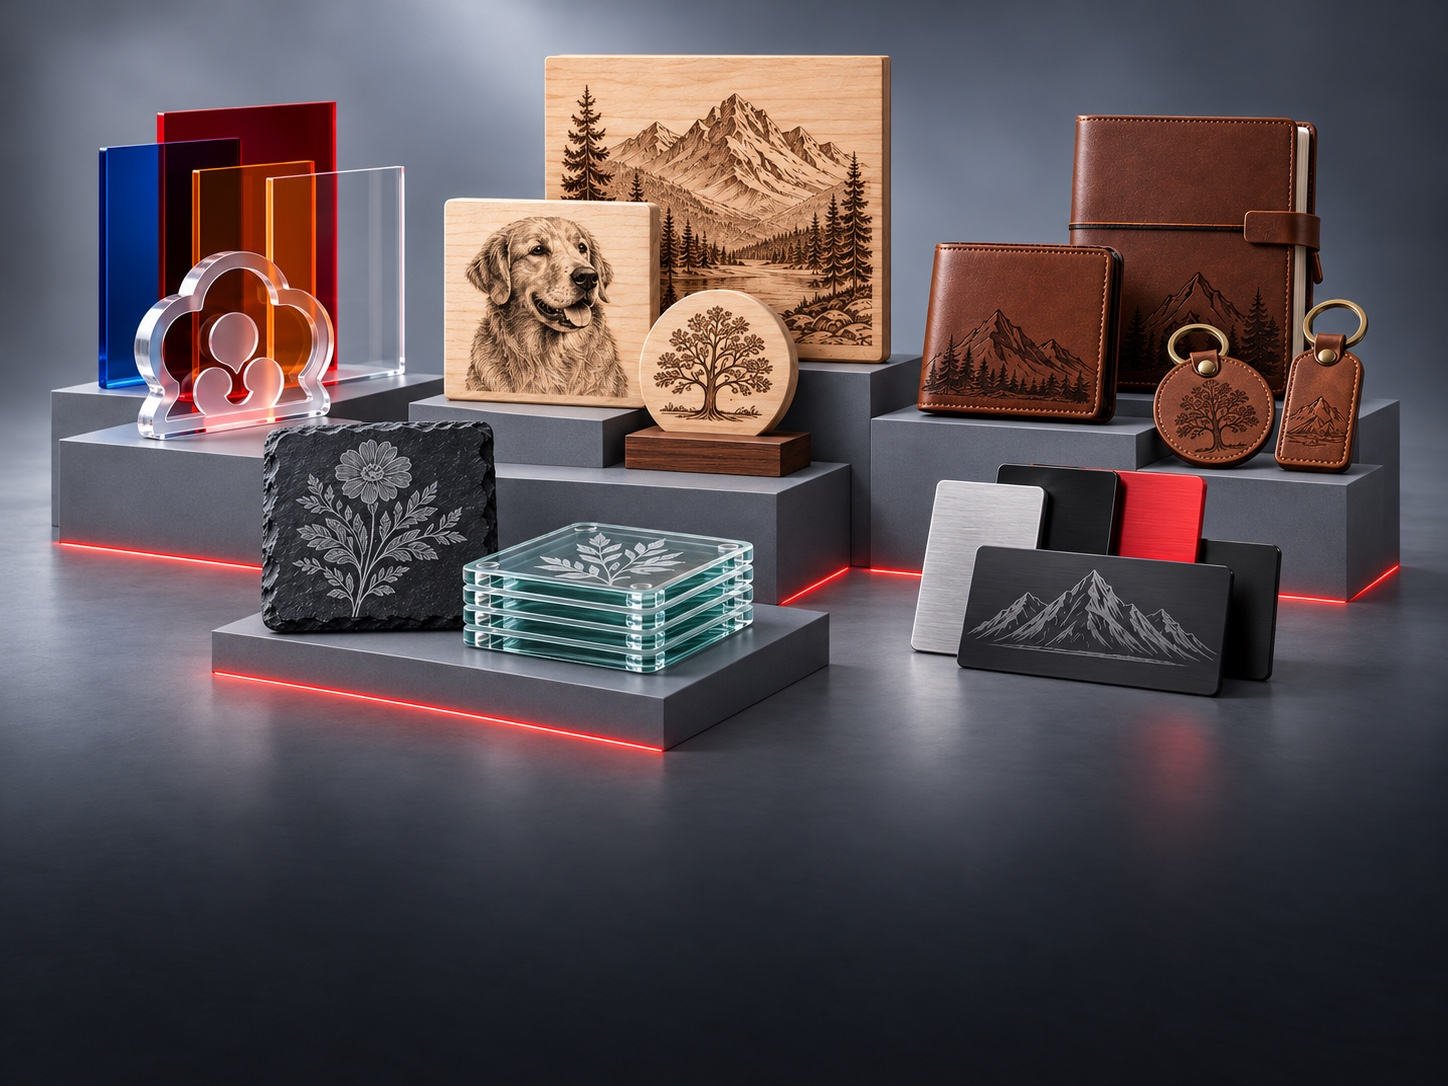
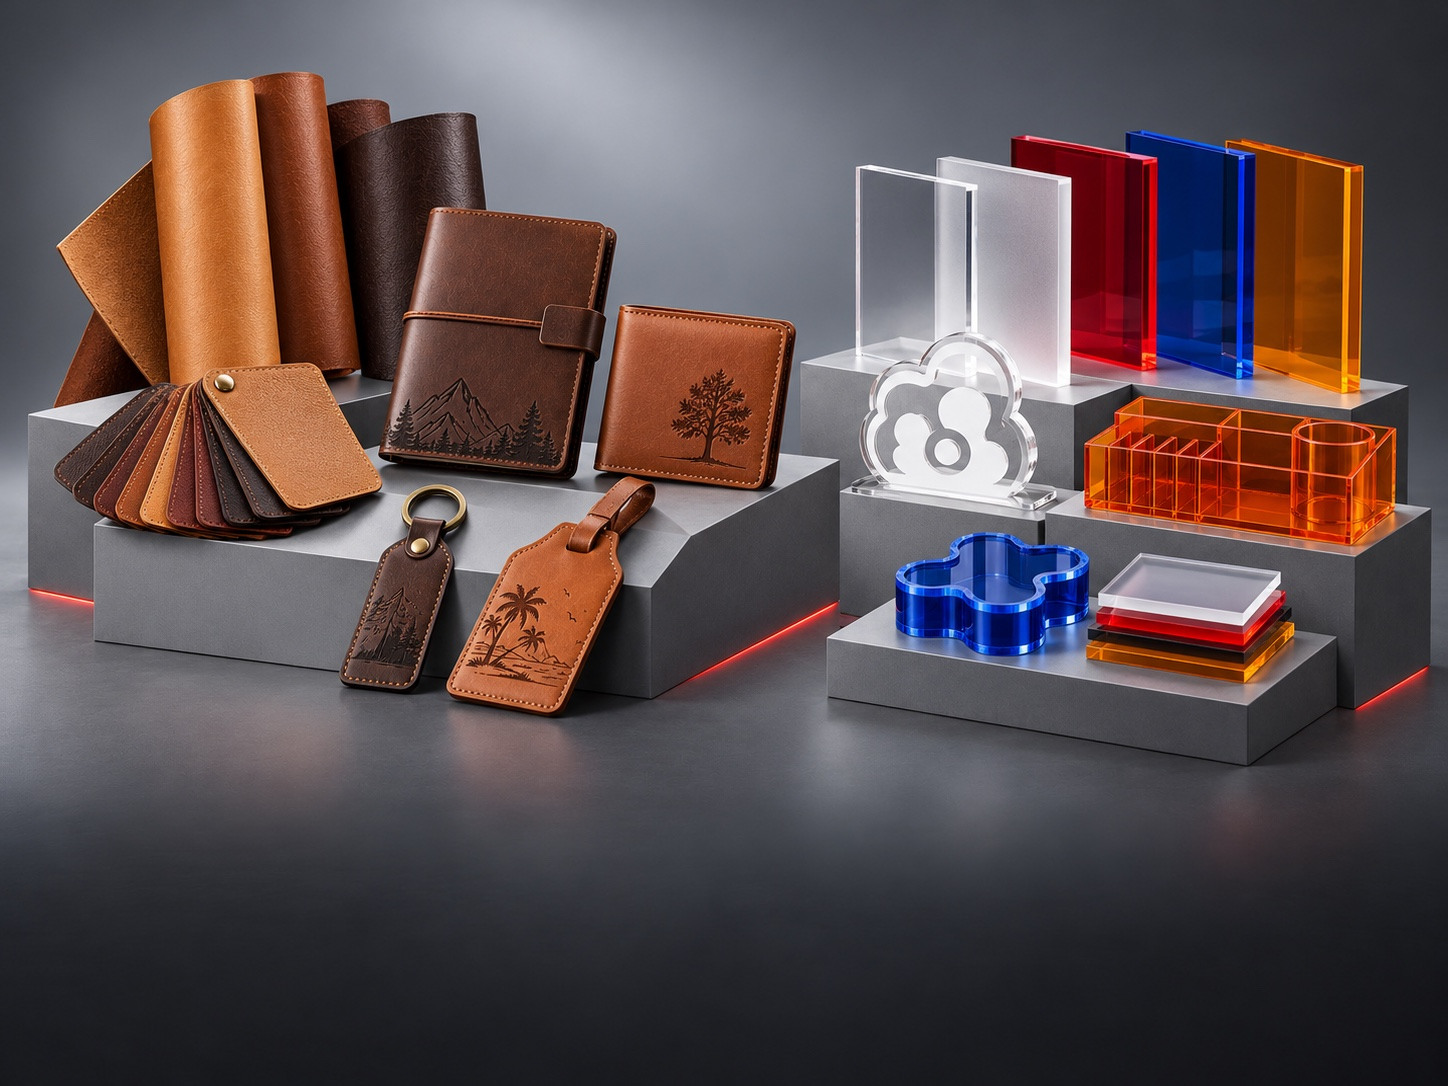
Refine accessories menu artwork

diff --git a/CURRENT.md b/CURRENT.md
@@ -18,7 +18,7 @@ This is the sole routine continuation handoff. Work directly in `/Users/yongyuan
 
 - Generation correction (2026-09-21): XRF uses True 3G in homepage cards, homepage Finder, collection family recommendations and comparison data. XRF Gen2 detail retains True 3.5G.
 
-- Shared navigation adds an Accessories Mega Menu with two large matched image cards: local `Laser Accessories` and official `Materials`. Both card images were generated as a coordinated gray-studio pair through Ego ChatGPT from official OneLaser accessory/material references; labels and arrows remain accessible HTML overlays. Mobile navigation exposes the same two destinations in its Accessories accordion. Laser Machines includes all desktop series and models; Support and Community share the desktop featured and text links. Search and Log in remain available. Menu open locks background scroll; Escape, close, link selection and desktop resize dismiss it.
+- Shared navigation adds an Accessories Mega Menu with two centered 280 × 242 image cards: local `Laser Accessories` and official `Materials`. Laser Accessories uses the user-approved full accessory lineup image; Materials uses the coordinated gray-studio image generated through Ego ChatGPT from official material references. Labels and arrows remain accessible HTML overlays. Mobile navigation exposes the same two destinations in its Accessories accordion. Laser Machines includes all desktop series and models; Support and Community share the desktop featured and text links. Search and Log in remain available. Menu open locks background scroll; Escape, close, link selection and desktop resize dismiss it.
 - Lineup price update (2026-09-09): all four lineup cards show a centered `From $X,XXX USD` line above Explore, using official base prices Cobra $5,999, XRF $4,399, Hydra Gen2 $10,999 and VertiGo $5,599. Prices were verified through the official product JSON endpoints; Cobra uses the Cobra 8 series entry price and now links to the official series collection. Cards gain 40 px to preserve their original image space; scene hover/focus switches price text to white.
 - Narrative order is Hero Campaigns → machine lineup → Made with OneLaser → performance → audience fit → real-world proof → OneLaser Standard → Explore / Community → footer.
 - The four-machine lineup explains project fit before specifications and preserves the Cobra, XRF, Hydra Gen2 and VertiGo capability boundaries.
